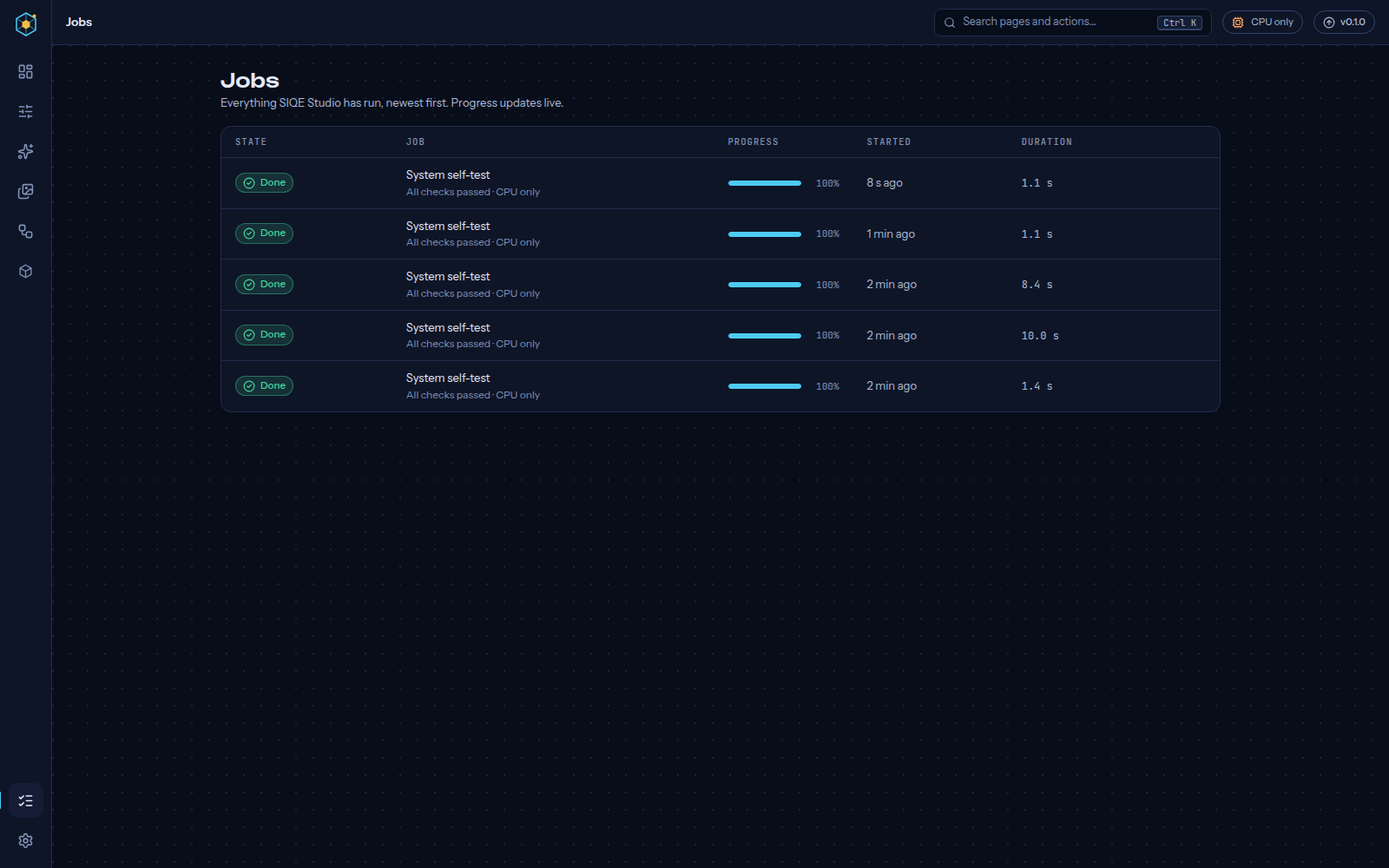
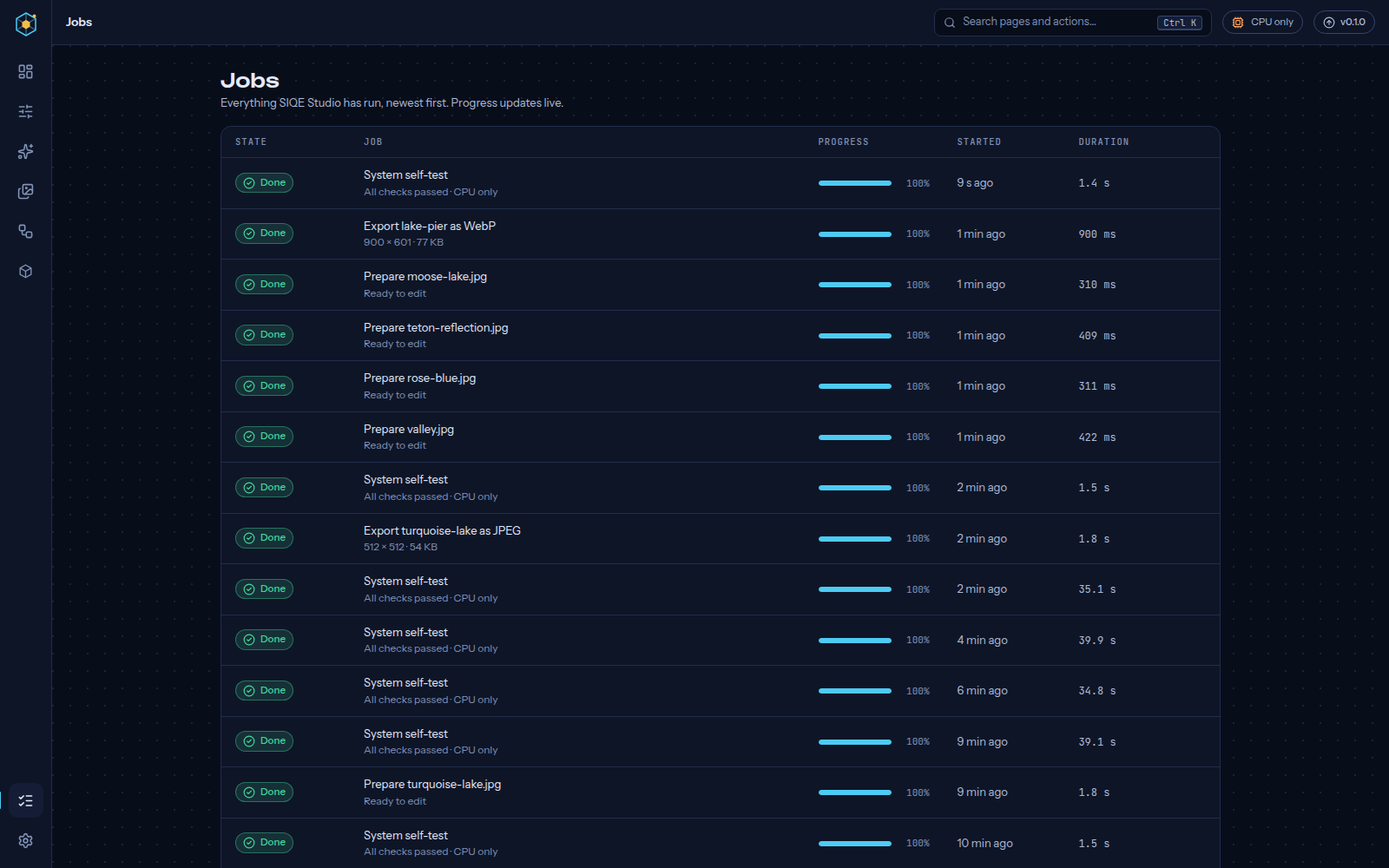
docs: Phase 1 complete (Studio), ADR 0005, refreshed gallery
- README: status, Studio screenshots and shortcuts, upload setting, troubleshooting
- CHANGELOG: Studio entries under Unreleased
- architecture.md: edit documents and live preview, file layout, upload and security
  notes brought in line with the code; P1 done, P2 next
- ADR 0005: edit documents rendered by WebGL and libvips with a shared parity fixture
- AGENTS.md: current phase, imaging map entries, formula-parity rule

Claude-Session: https://claude.ai/code/session_01Dy7YK7MoJx8DgM9KrspSHC

diff --git a/docs/plan/architecture.html b/docs/plan/architecture.html
@@ -88,11 +88,11 @@ article blockquote{margin:16px 0; padding:12px 16px; border-left:3px solid var(-
 <tbody>
 <tr>
 <td><strong>Status</strong></td>
-<td>Approved. Phase 0 (foundation) implemented. Living document, v3.</td>
+<td>Approved. Phases 0 (foundation) and 1 (Studio) implemented. Living document, v3.</td>
 </tr>
 <tr>
 <td><strong>Updated</strong></td>
-<td>1 October 2026</td>
+<td>2 October 2026</td>
 </tr>
 <tr>
 <td><strong>Product plan</strong></td>
@@ -353,7 +353,7 @@ article blockquote{margin:16px 0; padding:12px 16px; border-left:3px solid var(-
 <tbody>
 <tr>
 <td>Frontend</td>
-<td>Vite 8.3, React 19.3, TypeScript 5.9, TanStack Router 1.170 and Query 5.104, Zustand 5, Tailwind CSS 4.3, cmdk 1.1, Biome 2.5, Vitest 5, Playwright 1.63, pnpm 12.8, Node 24</td>
+<td>Vite 8.3, React 19.3, TypeScript 5.9, TanStack Router 1.170 and Query 5.104, Zustand 5, Tailwind CSS 4.3, cmdk 1.1, OpenSeadragon 6.1, Biome 2.5, Vitest 5, Playwright 1.63, pnpm 12.8, Node 24</td>
 </tr>
 <tr>
 <td>Backend</td>
@@ -465,12 +465,23 @@ article blockquote{margin:16px 0; padding:12px 16px; border-left:3px solid var(-
 <p>Image bytes live on the <code>data</code> volume, never in the database:</p>
 <pre><code class="language-text">/data
 ├── media/originals/ab/cd/&lt;sha256&gt;.&lt;ext&gt;   immutable uploads, stored once per content hash
-├── media/renditions/&lt;asset&gt;/&lt;job&gt;.&lt;ext&gt;   outputs are new files, never overwrites
-├── media/previews/&lt;sha256&gt;/               2048 px preview + deep-zoom tile pyramid
+├── media/previews/&lt;asset&gt;/                320 px thumbnail, 2048 px preview, deep-zoom tile pyramid
+├── media/renditions/&lt;asset&gt;/&lt;id&gt;.&lt;ext&gt;    exports are new files, written to a temp name and renamed
 ├── models/&lt;family&gt;/&lt;file&gt;                 downloaded weights, verified by sha256
 ├── checkpoints/&lt;run&gt;/                     Forge training checkpoints
 └── tmp/                                   scratch space, cleaned on start and by age
 </code></pre>
+<h3 id="44-edit-documents-and-the-live-preview">4.4 Edit documents and the live preview</h3>
+<p>Studio never changes the original. Each asset carries an <strong>edit document</strong> (JSONB): geometry first (rotate clockwise, flip, crop in normalised coordinates of the rotated image), then adjustments in a fixed order: temperature, tint, exposure, whites, blacks, highlights, shadows, contrast, vibrance, saturation, black and white, sharpen, vignette.</p>
+<pre class="mermaid">flowchart LR
+  D[(Edit document)] --&gt; G[Browser: WebGL 2 on the 2048 px preview]
+  D --&gt; S[Server: libvips at full resolution]
+  F[ops_parity.json] -.checks.-&gt; G
+  F -.checks.-&gt; S
+  S --&gt; E[Export: JPEG, PNG, WebP, AVIF, TIFF]
+</pre>
+<p>The browser redraws on every slider move; the export workflow streams the same formulas through libvips. A shared fixture keeps them identical, and a Playwright test runs the actual shader on the GPU against it. Details and trade-offs: <a href="adr/0005-edit-documents-and-preview.md">ADR 0005</a>.</p>
+<p>Import (<code>IngestAssetWorkflow</code>) makes a thumbnail, a 2048 px preview and a deep-zoom pyramid (510 px WebP tiles) used by the full-resolution inspector. Export (<code>ExportWorkflow</code>) checks format limits and free disk before it starts, can aim for a target file size by searching JPEG/WebP/AVIF quality, strips camera data and GPS by default (keeping the colour profile), and can be cancelled mid-encode.</p>
 <hr />
 <h2 id="5-robustness-and-resource-safety">5. Robustness and resource safety</h2>
 <p>The rules and current limits are listed in <a href="robustness.md">docs/robustness.md</a>. The design:</p>
@@ -493,7 +504,7 @@ article blockquote{margin:16px 0; padding:12px 16px; border-left:3px solid var(-
   F -- with changes --&gt; X[Offer fixes: lower scale, TIFF instead of WebP, CPU route]
   F -- no --&gt; E[Reject with the reason and the numbers]
 </pre>
-<p>Dimensions are read from the header without decoding, against <code>SIQE_MAX_INPUT_MEGAPIXELS</code> (default 250). Pillow's <code>MAX_IMAGE_PIXELS</code> is set to the same value as a second guard. Format ceilings are known to the planner: WebP stops at 16,383 px per side and JPEG at 65,535 px. A job needs twice its predicted output size in free disk. Uploads are chunked, resumable and hashed while streaming.</p>
+<p>Dimensions are read from the header without decoding, against <code>SIQE_MAX_INPUT_MEGAPIXELS</code> (default 250). Pillow's <code>MAX_IMAGE_PIXELS</code> is set to the same value as a second guard. Format ceilings are known to the planner: WebP stops at 16,383 px per side and JPEG at 65,535 px. A job needs twice its predicted output size in free disk. Uploads stream to disk in one request and are hashed on the way (never held in memory); the same file uploaded twice is recognised by its SHA-256. Resumable uploads may follow if very large files need them.</p>
 <h3 id="53-worked-example-8k-image-4-upscale">5.3 Worked example: 8K image, ×4 upscale</h3>
 <div class="tbl"><table>
 <thead>
@@ -719,7 +730,9 @@ article blockquote{margin:16px 0; padding:12px 16px; border-left:3px solid var(-
 <li>Database and Temporal ports are not published (except in <code>compose.dev.yaml</code>, on localhost).</li>
 <li>Containers run as a non-root user with memory limits.</li>
 <li>Release notes render without raw HTML.</li>
-<li>From later phases: hashed API keys, content-sniffed uploads with hash-based paths, <code>weights_only=True</code> for <code>.pth</code> files, and EXIF/GPS stripping on export.</li>
+<li>Uploads are identified by reading the file header, never by extension or client type, and stored under hash-based paths; user file names never become paths. Deep-zoom paths are resolved inside the image's folder only.</li>
+<li>Exports strip camera data and GPS location by default.</li>
+<li>From later phases: hashed API keys and <code>weights_only=True</code> for <code>.pth</code> files.</li>
 <li>CI runs a Trivy scan of the API image. Dependabot watches uv, npm, Docker and Actions. pnpm's minimum-release-age check stays on.</li>
 </ul>
 <hr />
@@ -739,14 +752,14 @@ article blockquote{margin:16px 0; padding:12px 16px; border-left:3px solid var(-
 <td><strong>Done</strong></td>
 </tr>
 <tr>
-<td>P1 Studio and storage</td>
+<td><strong>P1 Studio and storage</strong></td>
 <td>Content-addressed storage, admission checks, previews and deep zoom, classic operations, edit stack, WebGL preview, Compare viewer, export with format checks</td>
-<td>Next</td>
+<td><strong>Done</strong></td>
 </tr>
 <tr>
 <td>P2 AI Lab and governor</td>
 <td>Model registry and downloads, tiling engine, VRAM calibration, full OOM ladder, SIQE Classic port, upscalers, faces, cutout, erase, colorize, denoise, deblur</td>
-<td></td>
+<td>Next</td>
 </tr>
 <tr>
 <td>P3 Library</td>

diff --git a/docs/architecture.md b/docs/architecture.md
@@ -2,8 +2,8 @@
 
 | | |
 |---|---|
-| **Status** | Approved. Phase 0 (foundation) implemented. Living document, v3. |
-| **Updated** | 1 October 2026 |
+| **Status** | Approved. Phases 0 (foundation) and 1 (Studio) implemented. Living document, v3. |
+| **Updated** | 2 October 2026 |
 | **Product plan** | [docs/plan/blueprint.html](plan/blueprint.html): workspaces, UI mockups and the 83-operation catalog |
 | **Decision records** | [docs/adr/](adr/) |
 | **Limits and error codes** | [docs/robustness.md](robustness.md) |
@@ -101,7 +101,7 @@ Measured in Phase 0: a job runs API → Temporal → CPU worker → GPU worker i
 
 | Layer | Versions |
 |---|---|
-| Frontend | Vite 8.3, React 19.3, TypeScript 5.9, TanStack Router 1.170 and Query 5.104, Zustand 5, Tailwind CSS 4.3, cmdk 1.1, Biome 2.5, Vitest 5, Playwright 1.63, pnpm 12.8, Node 24 |
+| Frontend | Vite 8.3, React 19.3, TypeScript 5.9, TanStack Router 1.170 and Query 5.104, Zustand 5, Tailwind CSS 4.3, cmdk 1.1, OpenSeadragon 6.1, Biome 2.5, Vitest 5, Playwright 1.63, pnpm 12.8, Node 24 |
 | Backend | Python 3.12, FastAPI 0.142, Pydantic 2.13, SQLAlchemy 2.1 (asyncpg), Alembic 1.20, temporalio 1.34, structlog, Typer, uv, Ruff, mypy (strict), pytest |
 | Imaging | pyvips 3.2 with libvips 8.18 (binary wheel), OpenCV 5, Pillow 12 |
 | AI | PyTorch 2.14 (CUDA 13 build), nvidia-ml-py |
@@ -172,12 +172,29 @@ Image bytes live on the `data` volume, never in the database:
 ```text
 /data
 ├── media/originals/ab/cd/<sha256>.<ext>   immutable uploads, stored once per content hash
-├── media/renditions/<asset>/<job>.<ext>   outputs are new files, never overwrites
-├── media/previews/<sha256>/               2048 px preview + deep-zoom tile pyramid
+├── media/previews/<asset>/                320 px thumbnail, 2048 px preview, deep-zoom tile pyramid
+├── media/renditions/<asset>/<id>.<ext>    exports are new files, written to a temp name and renamed
 ├── models/<family>/<file>                 downloaded weights, verified by sha256
 ├── checkpoints/<run>/                     Forge training checkpoints
 └── tmp/                                   scratch space, cleaned on start and by age
 ```
+
+### 4.4 Edit documents and the live preview
+
+Studio never changes the original. Each asset carries an **edit document** (JSONB): geometry first (rotate clockwise, flip, crop in normalised coordinates of the rotated image), then adjustments in a fixed order: temperature, tint, exposure, whites, blacks, highlights, shadows, contrast, vibrance, saturation, black and white, sharpen, vignette.
+
+```mermaid
+flowchart LR
+  D[(Edit document)] --> G[Browser: WebGL 2 on the 2048 px preview]
+  D --> S[Server: libvips at full resolution]
+  F[ops_parity.json] -.checks.-> G
+  F -.checks.-> S
+  S --> E[Export: JPEG, PNG, WebP, AVIF, TIFF]
+```
+
+The browser redraws on every slider move; the export workflow streams the same formulas through libvips. A shared fixture keeps them identical, and a Playwright test runs the actual shader on the GPU against it. Details and trade-offs: [ADR 0005](adr/0005-edit-documents-and-preview.md).
+
+Import (`IngestAssetWorkflow`) makes a thumbnail, a 2048 px preview and a deep-zoom pyramid (510 px WebP tiles) used by the full-resolution inspector. Export (`ExportWorkflow`) checks format limits and free disk before it starts, can aim for a target file size by searching JPEG/WebP/AVIF quality, strips camera data and GPS by default (keeping the colour profile), and can be cancelled mid-encode.
 
 ---
 
@@ -207,7 +224,7 @@ flowchart LR
   F -- no --> E[Reject with the reason and the numbers]
 ```
 
-Dimensions are read from the header without decoding, against `SIQE_MAX_INPUT_MEGAPIXELS` (default 250). Pillow's `MAX_IMAGE_PIXELS` is set to the same value as a second guard. Format ceilings are known to the planner: WebP stops at 16,383 px per side and JPEG at 65,535 px. A job needs twice its predicted output size in free disk. Uploads are chunked, resumable and hashed while streaming.
+Dimensions are read from the header without decoding, against `SIQE_MAX_INPUT_MEGAPIXELS` (default 250). Pillow's `MAX_IMAGE_PIXELS` is set to the same value as a second guard. Format ceilings are known to the planner: WebP stops at 16,383 px per side and JPEG at 65,535 px. A job needs twice its predicted output size in free disk. Uploads stream to disk in one request and are hashed on the way (never held in memory); the same file uploaded twice is recognised by its SHA-256. Resumable uploads may follow if very large files need them.
 
 ### 5.3 Worked example: 8K image, ×4 upscale
 
@@ -393,7 +410,9 @@ Settings: `SIQE_UPDATE_REPO`, `SIQE_UPDATE_INCLUDE_PRERELEASES`, optional `SIQE_
 - Database and Temporal ports are not published (except in `compose.dev.yaml`, on localhost).
 - Containers run as a non-root user with memory limits.
 - Release notes render without raw HTML.
-- From later phases: hashed API keys, content-sniffed uploads with hash-based paths, `weights_only=True` for `.pth` files, and EXIF/GPS stripping on export.
+- Uploads are identified by reading the file header, never by extension or client type, and stored under hash-based paths; user file names never become paths. Deep-zoom paths are resolved inside the image's folder only.
+- Exports strip camera data and GPS location by default.
+- From later phases: hashed API keys and `weights_only=True` for `.pth` files.
 - CI runs a Trivy scan of the API image. Dependabot watches uv, npm, Docker and Actions. pnpm's minimum-release-age check stays on.
 
 ---
@@ -403,8 +422,8 @@ Settings: `SIQE_UPDATE_REPO`, `SIQE_UPDATE_INCLUDE_PRERELEASES`, optional `SIQE_
 | Phase | Delivers | Status |
 |---|---|---|
 | **P0 Foundation** | Repo restructure, backend and frontend skeletons, Temporal pipeline, live events, Overview with hardware and self-test, Update Center, Compose stack, CI and release workflows, AGENTS.md, README, gallery | **Done** |
-| P1 Studio and storage | Content-addressed storage, admission checks, previews and deep zoom, classic operations, edit stack, WebGL preview, Compare viewer, export with format checks | Next |
-| P2 AI Lab and governor | Model registry and downloads, tiling engine, VRAM calibration, full OOM ladder, SIQE Classic port, upscalers, faces, cutout, erase, colorize, denoise, deblur | |
+| **P1 Studio and storage** | Content-addressed storage, admission checks, previews and deep zoom, classic operations, edit stack, WebGL preview, Compare viewer, export with format checks | **Done** |
+| P2 AI Lab and governor | Model registry and downloads, tiling engine, VRAM calibration, full OOM ladder, SIQE Classic port, upscalers, faces, cutout, erase, colorize, denoise, deblur | Next |
 | P3 Library | Import and hot folders, hashing and embeddings, duplicates with quarantine, similar and text search, smart albums, EXIF and GPS tools | |
 | P4 Flows | Node editor, batch runs with paged child workflows, recipes, API keys, `siqe` CLI commands | |
 | P5 Forge | Visual builder, shape checker, graph-to-PyTorch compiler, dataset builder, resumable training, live charts, publish to AI Lab | |

diff --git a/README.md b/README.md
@@ -18,7 +18,7 @@ Self-hosted. One command to run. Your GPU, your files, your models.
 </div>
 
 > [!NOTE]
-> **Status: Phase 0 of 6 (foundation) is complete.** The platform runs end to end: job engine, workers, live updates, hardware monitoring, self-test and the Update Center. The five workspaces arrive phase by phase; see the [roadmap](#roadmap).
+> **Status: Phase 1 of 6 is complete.** The foundation (job engine, workers, live updates, hardware monitoring, self-test, Update Center) and the **Studio** editor are ready to use. AI Lab, Library, Flows and Forge arrive phase by phase; see the [roadmap](#roadmap).
 
 ---
 
@@ -32,7 +32,7 @@ SIQE Studio brings three earlier projects together into one platform: the **Supe
 
 | Workspace | What it does | Phase |
 |---|---|---|
-| **Studio** | Non-destructive editor with live GPU preview: curves, HSL, LUTs, compare views, smart export | 1 |
+| **Studio** | Non-destructive editor with a live GPU preview: light and colour adjustments, crop and rotate, compare views, histogram, export to any common format with a target size. **Ready now.** | 1 |
 | **AI Lab** | Upscale ×2/×3/×4 at any size with tiled inference, restore faces, remove backgrounds, erase objects, colorize, denoise. Includes **SIQE Classic**, the original model | 2 |
 | **Library** | Duplicates that keep the sharpest copy, similar-image and text search, smart albums, EXIF and GPS privacy tools | 3 |
 | **Flows** | Visual pipelines for batches and hot folders, runnable from the API and CLI | 4 |
@@ -42,8 +42,14 @@ Built for real hardware limits: images are planned before processing, large ones
 
 ## Screenshots
 
+<img src="gallery/studio-dark.png" alt="Studio: an edited lake photo in split compare view, with the edit stack and history on the left and adjustment sliders with a histogram on the right" width="100%" />
+
 | | |
 |---|---|
+| <img src="gallery/studio-crop.png" alt="Studio crop tool with a 3:2 frame, rule-of-thirds grid, rotate and flip buttons and aspect presets" /> | <img src="gallery/studio-export.png" alt="Studio export panel with format choice, quality, longest side, target size and a finished export ready to download" /> |
+| Crop, rotate and flip | Export with format checks and a target size |
+| <img src="gallery/studio-light.png" alt="Studio in the light theme showing side-by-side compare" /> | <img src="gallery/studio-inspect.png" alt="Full-resolution inspector zoomed into the original pixels" /> |
+| Side by side, light theme | Full-resolution inspector |
 | <img src="gallery/overview-light.png" alt="Overview in the light theme" /> | <img src="gallery/update-center.png" alt="Update Center drawer listing a newer release with release notes and update commands" /> |
 | Overview, light theme | Update Center (example release notes) |
 | <img src="gallery/command-palette.png" alt="Command palette open over the Overview" /> | <img src="gallery/jobs.png" alt="Jobs page with job states, progress and durations" /> |
@@ -51,7 +57,7 @@ Built for real hardware limits: images are planned before processing, large ones
 | <img src="gallery/ai-lab-preview.png" alt="AI Lab workspace preview" /> | <img src="gallery/settings.png" alt="Settings page with theme, updates and about" /> |
 | AI Lab (arrives in Phase 2) | Settings |
 
-<p align="center"><img src="gallery/overview-phone.png" alt="Overview on a phone with bottom navigation" width="260" /></p>
+<p align="center"><img src="gallery/overview-phone.png" alt="Overview on a phone with bottom navigation" width="240" /> &nbsp; <img src="gallery/studio-phone.png" alt="Studio on a phone with the preview above the tools" width="240" /></p>
 
 All screenshots are regenerated with `make gallery`.
 
@@ -67,6 +73,8 @@ make up-gpu      # or: with your NVIDIA GPU
 ```
 
 Open **http://localhost:8080** and press **Run self-test** on the Overview. In about a second it confirms every service works and benchmarks your hardware.
+
+Then open **Studio** (second icon in the left rail) and drop a photo onto the page. Keyboard shortcuts there: `Ctrl Z` / `Ctrl Shift Z` undo and redo, hold `\` to see the original, `[` and `]` move between images, `I` inspects at full resolution.
 
 <details>
 <summary>Without <code>make</code> (for example on Windows)</summary>
@@ -114,6 +122,7 @@ All settings live in `.env` (created by `make env` from [.env.example](.env.exam
 | `SIQE_BIND` / `SIQE_PORT` | `127.0.0.1` / `8080` | Where the web app listens. Use `0.0.0.0` to open it to your network (there is no login). |
 | `SIQE_VERSION` | `latest` | Image tag to run; pin a version to stay on it |
 | `SIQE_MAX_INPUT_MEGAPIXELS` | `250` | Largest image accepted |
+| `SIQE_MAX_UPLOAD_MB` | `2048` | Largest single upload |
 | `SIQE_GPU_VRAM_RESERVE_MB` | `1536` | VRAM always left free |
 | `SIQE_GPU_WORKER_MEMORY` | `12g` | System RAM cap for the GPU worker |
 | `SIQE_UPDATE_REPO` | this repository | Where the Update Center looks for releases |
@@ -182,6 +191,9 @@ The first time images are published, make the three packages public in GitHub (P
 | Port 8080 already in use | Set `SIQE_PORT` in `.env`, then `make up` |
 | Update Center says it can't reach GitHub | Check internet access; set `SIQE_GITHUB_TOKEN` if you hit GitHub's rate limit |
 | `toomanyrequests` while pulling images | Docker Hub's anonymous limit: `docker login`, or wait an hour |
+| Studio says the live preview needs WebGL 2 | Turn on hardware acceleration in your browser's settings. Edits still apply to exports. |
+| An upload is refused as too large | Raise `SIQE_MAX_UPLOAD_MB` or `SIQE_MAX_INPUT_MEGAPIXELS` in `.env`, then `make up` |
+| Export refused with `format.dimension_limit` | WebP and AVIF stop at about 16,000 px per side: pick a smaller longest side, or PNG, TIFF or JPEG |
 
 Every API error has a stable code and a suggested fix; the full list is in [docs/robustness.md](docs/robustness.md#error-codes).
 
@@ -190,8 +202,8 @@ Every API error has a stable code and a suggested fix; the full list is in [docs
 | Phase | Delivers | Status |
 |---|---|---|
 | P0 Foundation | Job engine, workers, live updates, Overview, self-test, Update Center, Docker stack, CI | ✅ Done |
-| P1 Studio | Storage, previews and deep zoom, classic edits, edit stack, WebGL preview, Compare, export | Next |
-| P2 AI Lab | Model registry, tiled inference, VRAM planner, OOM ladder, SIQE Classic, upscalers, restoration | |
+| P1 Studio | Storage, previews and deep zoom, classic edits, edit stack, WebGL preview, Compare, export | ✅ Done |
+| P2 AI Lab | Model registry, tiled inference, VRAM planner, OOM ladder, SIQE Classic, upscalers, restoration | Next |
 | P3 Library | Duplicates, similar and text search, smart albums, EXIF and GPS tools | |
 | P4 Flows | Pipelines, batches, hot folders, API keys, CLI | |
 | P5 Forge | Visual model builder, training with live charts, publish to AI Lab | |

diff --git a/AGENTS.md b/AGENTS.md
@@ -9,7 +9,7 @@ Guidelines for AI coding agents (and humans) working in this repository. Read th
 - Architecture and decisions: [docs/architecture.md](docs/architecture.md) and [docs/adr/](docs/adr/)
 - Limits, error codes, fallbacks: [docs/robustness.md](docs/robustness.md)
 - Product plan and UI mockups: [docs/plan/blueprint.html](docs/plan/blueprint.html)
-- Current phase: **P0 foundation done; P1 (Studio and storage) next.** Workspaces other than Overview are preview pages until their phase lands.
+- Current phase: **P1 (Studio and storage) done; P2 (AI Lab and governor) next.** AI Lab, Library, Flows and Forge are preview pages until their phase lands.
 
 ## Map
 
@@ -23,11 +23,14 @@ Guidelines for AI coding agents (and humans) working in this repository. Read th
 | `backend/src/siqe/jobs/` | Job rows and throttled progress reporting |
 | `backend/src/siqe/workers/` | Worker processes (`siqe worker cpu|gpu`) and heartbeats |
 | `backend/src/siqe/events/` | PostgreSQL LISTEN/NOTIFY publisher and WebSocket hub |
+| `backend/src/siqe/imaging/` | Admission (`io.inspect`), working space, edit document, adjustment formulas, export |
+| `backend/src/siqe/storage/` | Content-addressed media store on the data volume |
+| `backend/src/siqe/assets/` | Asset and rendition rows, their events |
 | `backend/src/siqe/ai/` | GPU discovery, OOM handling; governor, tiling and model registry from P2 |
 | `backend/src/siqe/system/` | Container-aware CPU, memory and disk readings |
 | `backend/src/siqe/updates/` | GitHub release checks for the Update Center |
 | `frontend/src/app/` | Router, app shell, command palette, Update Center drawer |
-| `frontend/src/features/` | One folder per page or workspace |
+| `frontend/src/features/` | One folder per page or workspace; `studio/gl/` holds the WebGL preview |
 | `frontend/src/components/ui/` | Lattice design-system primitives |
 | `frontend/src/lib/api/` | Generated OpenAPI types (`schema.d.ts`), client, queries |
 | `frontend/e2e/` | Playwright tests; `gallery.spec.ts` captures README screenshots |
@@ -49,7 +52,7 @@ make gallery           # refresh gallery/*.png (stack must be running)
 make ops               # Temporal UI on http://localhost:8233
 ```
 
-Single tests: `cd backend && uv run pytest tests/unit/test_oom.py -k halves` · `cd frontend && pnpm vitest run src/lib/format.test.ts` · `cd frontend && pnpm exec playwright test e2e/smoke.spec.ts`.
+Single tests: `cd backend && uv run pytest tests/unit/test_oom.py -k halves` · `cd frontend && pnpm vitest run src/lib/format.test.ts` · `cd frontend && pnpm exec playwright test e2e/smoke.spec.ts`. `e2e/shader-parity.spec.ts` needs no running stack.
 
 ## Golden rules
 
@@ -58,13 +61,14 @@ Breaking one of these is a bug, even if tests pass.
 1. **Workflows are deterministic.** No I/O, network, database, file access, `datetime.now()`, randomness or threads in `siqe/workflows/`. Put that work in an activity. Import activity modules inside `workflow.unsafe.imports_passed_through()`. `tests/unit/test_workflows.py` runs every workflow through Temporal's sandbox; register new workflows in `siqe.workers.runner.WORKFLOWS`.
 2. **Activities are idempotent and report progress.** Use `siqe.jobs.progress.ProgressReporter` (it throttles writes and heartbeats). Write outputs to a temporary file and rename into place. Long activities must heartbeat so cancellation and crash detection work.
 3. **GPU work runs only in activities on the `siqe-gpu` queue.** Never run two GPU jobs concurrently, and never call `.cuda()` from API code. Wrap GPU work in `siqe.ai.oom.run_with_halving` (P2: the governor) so out-of-memory degrades instead of crashing.
-4. **Never load a full-resolution user image naively.** From P1, open images only through the imaging admission helper (header-only size check, streaming via libvips). Don't call `PIL.Image.open` or `cv2.imread` on user files.
+4. **Never load a full-resolution user image naively.** Check user files with `siqe.imaging.io.inspect` (header only) and open them with `siqe.imaging.io.open_image` (libvips, streamed). Don't call `PIL.Image.open` or `cv2.imread` on user files.
 5. **Errors are typed.** Raise `siqe.core.errors.AppError` (or a subclass) with a stable dotted `code` and a `fix` hint. Add new codes to `docs/robustness.md`. Never return ad-hoc error dicts or leak exception text from unexpected errors.
 6. **Schema changes go through Alembic.** Add a new migration in `siqe/db/migrations/versions/`. Never edit a migration that has been released.
-7. **The frontend only talks to the backend through the generated client.** After changing a route or schema, run `make gen-api` and commit `frontend/openapi.json` and `schema.d.ts`. CI fails on drift.
-8. **No model weights in git.** Models are added by manifest (source URL, sha256, license) from P2. Commercial-safe licenses only (no CodeFormer, no non-commercial Depth Anything sizes). Load `.pth` with `weights_only=True`; prefer safetensors or ONNX.
-9. **Gold means AI.** In the UI, gold (`--gold`, `variant="ai"`) marks things that run an AI model. Use cyan for everything else. Colours come from tokens in `frontend/src/styles/tokens.css`; never hard-code hex values in components. Every view must work in dark and light themes and at phone width.
-10. **Status needs more than colour.** States (ok, warning, error) always pair a colour with an icon and a label.
+7. **The frontend only talks to the backend through the generated client.** After changing a route or schema, run `make gen-api` and commit `frontend/openapi.json` and `schema.d.ts`. CI fails on drift. The one exception is the upload in `features/studio/uploads.ts`, which uses XHR for progress but takes its path and types from the schema.
+8. **Edit formulas live in three places that must agree:** `siqe/imaging/ops.py`, `features/studio/gl/glsl.ts` and `gl/reference.ts`. After changing one, change the others and run `uv run python -m siqe.imaging.parity` to regenerate the shared fixture; the backend, Vitest and Playwright parity tests check all three (ADR 0005).
+9. **No model weights in git.** Models are added by manifest (source URL, sha256, license) from P2. Commercial-safe licenses only (no CodeFormer, no non-commercial Depth Anything sizes). Load `.pth` with `weights_only=True`; prefer safetensors or ONNX.
+10. **Gold means AI.** In the UI, gold (`--gold`, `variant="ai"`) marks things that run an AI model. Use cyan for everything else. Colours come from tokens in `frontend/src/styles/tokens.css`; never hard-code hex values in components. Every view must work in dark and light themes and at phone width.
+11. **Status needs more than colour.** States (ok, warning, error) always pair a colour with an icon and a label.
 
 ## Definition of done
 

diff --git a/docs/adr/0005-edit-documents-and-preview.md b/docs/adr/0005-edit-documents-and-preview.md
@@ -1,0 +1,28 @@
+# 0005. Edit documents rendered twice: WebGL in the browser, libvips on the server
+
+- **Status:** Accepted, 2 October 2026
+- **Raised by:** Phase 1 (Studio). The plan promised a live GPU preview and full-resolution exports from the same edits.
+
+## Context
+
+Studio edits must feel instant while the user drags a slider, but the exported file must be rendered at full resolution, possibly 250 megapixels, which no browser can hold. The two renderings have to agree, or the export won't look like the preview.
+
+## Decision
+
+- Edits are a **JSON edit document** stored on the asset: geometry (rotate clockwise, flip, crop in normalised coordinates of the rotated image) then a fixed, canonical list of adjustments. The original file is never modified. Ops at their defaults are dropped, so an untouched image has an empty document.
+- The **server** renders the document with libvips, streamed, at full resolution, in a Temporal activity (`ExportWorkflow`). Working space is sRGB-encoded float with alpha kept apart; 16-bit sources stay 16-bit.
+- The **browser** renders the same document on the 2048 px preview with a WebGL 2 shader: one draw per change, plus a cached two-pass blur for sharpening.
+- Every formula is written in `siqe/imaging/ops.py` (scalar and libvips versions), `gl/glsl.ts` (GLSL) and `gl/reference.ts` (TypeScript). `python -m siqe.imaging.parity` writes a shared fixture of 160 cases; the backend test, a Vitest test and a Playwright test that runs the real shader on the GPU all check against it.
+- The editor autosaves the document (debounced `PUT /api/assets/{id}/edits`) and keeps undo history in the browser.
+
+## Alternatives considered
+
+- **Server-rendered previews on every change:** simple and always identical, but each slider move becomes a job and a round trip. Too slow to feel like an editor.
+- **Canvas 2D or CSS filters in the browser:** can't express the formulas exactly (white balance in linear light, tone curves), so preview and export would drift.
+- **WebGPU:** not yet available in every browser the owner uses; WebGL 2 is.
+
+## Consequences
+
+- Changing or adding an adjustment means editing three files and regenerating the fixture; the tests fail until all three agree.
+- Spatial ops (sharpen, vignette) are checked by separate tests, since the fixture covers pointwise stages only. The preview scales the sharpen radius by the preview size, so very fine sharpening is only fully visible in the export.
+- The full-resolution inspector shows original pixels (deep-zoom tiles made at import); edits appear in exports.

diff --git a/CHANGELOG.md b/CHANGELOG.md
@@ -4,6 +4,22 @@ User-facing changes to SIQE Studio. The format follows [Keep a Changelog](https:
 
 ## [Unreleased]
 
+### Added
+
+- **Studio is here.** Upload images by dropping them anywhere on the page or with Add images; each one gets a thumbnail, a preview and full-resolution zoom tiles. The same file uploaded twice is recognised and opened instead of stored again.
+- **Live editing:** exposure, contrast, highlights, shadows, whites, blacks, temperature, tint, vibrance, saturation, black and white, sharpen and vignette, previewed instantly on your graphics card. Your original file is never changed.
+- **Edit stack and history:** switch any adjustment off or remove it, undo and redo (Ctrl Z, Ctrl Shift Z), or jump back to any step. Edits save automatically.
+- **Crop, rotate and flip** with draggable handles and aspect presets (1:1, 3:2, 4:3, 16:9, 4:5, 9:16 or the original shape).
+- **Compare** your edit with the original: split view with a draggable divider, side by side, or a difference view. Hold `\` to see the original.
+- **Histogram** with warnings when shadows or highlights are clipped.
+- **Export** to JPEG, PNG, WebP, AVIF or TIFF at full resolution, with a longest-side limit and an optional target file size. Camera data and GPS location are removed by default. Exports show live progress, can be cancelled, and stay available to download.
+- **Inspect** (press `I`) opens the original at full resolution with smooth zoom, down to single pixels.
+- New setting `SIQE_MAX_UPLOAD_MB` (default 2048) caps the size of one upload.
+
+### Changed
+
+- The Overview marks Studio as ready; the other workspaces still describe what's coming.
+
 ## [0.1.0] - Foundation
 
 The first version of the rebuilt platform. It replaces the original Super Image Quality Enhancer app, and absorbs the ideas from Image-modifier and Image-Modifier-.

diff --git a/docs/adr/README.md b/docs/adr/README.md
@@ -8,3 +8,4 @@ One short file per decision that shapes the codebase. Add a new record (next num
 | [0002](0002-database.md) | PostgreSQL with pgvector as the only stateful service | Accepted |
 | [0003](0003-temporal.md) | Temporal for job orchestration instead of Celery | Accepted |
 | [0004](0004-update-center.md) | In-app Update Center fed by GitHub releases | Accepted |
+| [0005](0005-edit-documents-and-preview.md) | Edit documents rendered by WebGL in the browser and libvips on the server | Accepted |
